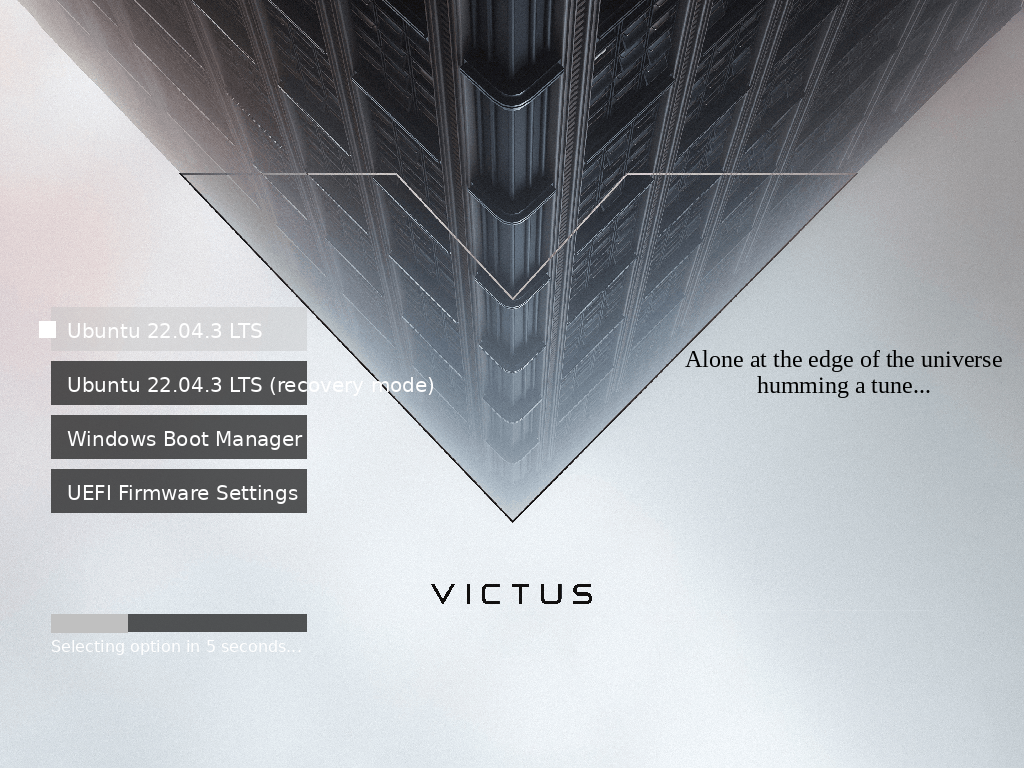
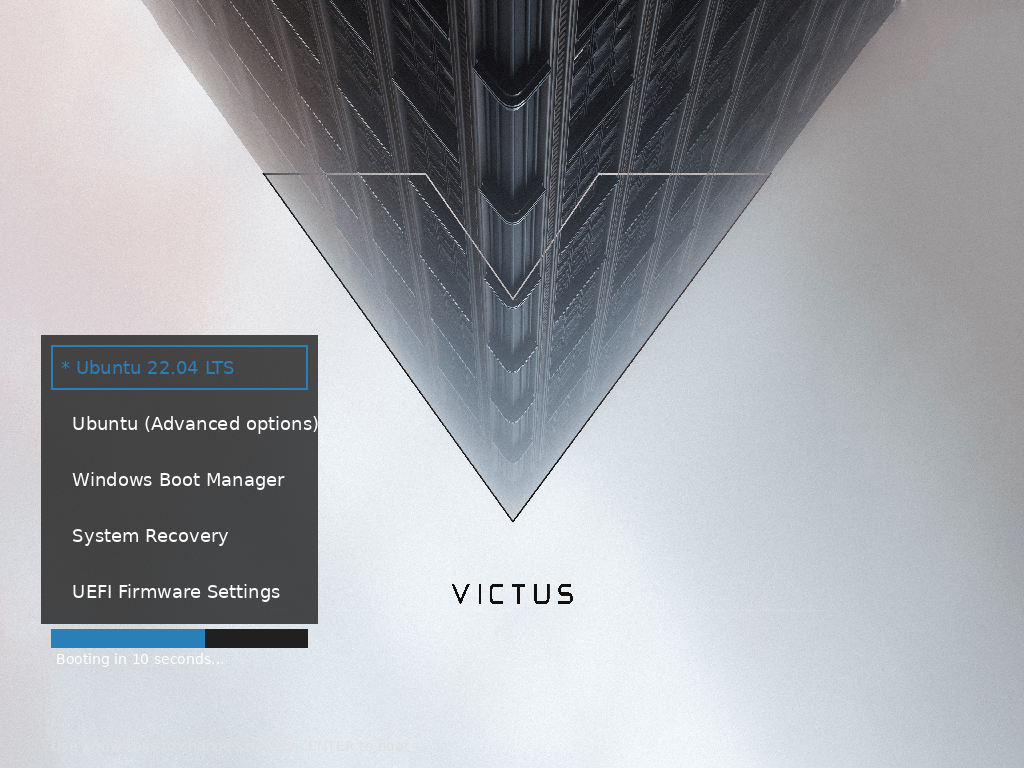
Add enhanced GRUB preview image and comprehensive manual installation guide

diff --git a/README.md b/README.md
@@ -8,7 +8,7 @@ A minimalistic, premium GRUB theme inspired by HP Victus branding featuring ultr
 
 ![HP Victus GRUB Theme in Action](grub_theme_preview.png)
 
-*The enhanced HP Victus GRUB theme featuring left-positioned menu layout, atmospheric smokey skyscraper background, dark semi-transparent overlays, and modern blue highlights optimized for maximum readability.*
+*The enhanced HP Victus GRUB theme featuring left-positioned menu layout, atmospheric smokey skyscraper background, dark semi-transparent overlays, and modern blue highlights optimized for maximum readability. The theme shows a typical boot menu with Ubuntu, Windows, and recovery options, demonstrating the clean modern aesthetic with the #2980B9 blue color scheme.*
 
 ## Features
 
@@ -42,25 +42,156 @@ The script will:
 
 ### Manual Installation
 
-1. Copy the theme directory:
+#### Step-by-Step Manual Installation
+
+**Step 1: Download and Extract Theme**
 ```bash
+# Clone the repository
+git clone https://github.com/RedheadedGamer/victus_grub.git
+cd victus_grub
+
+# Or if you downloaded a ZIP file, extract it and navigate to the directory
+```
+
+**Step 2: Copy Theme Files to GRUB Directory**
+```bash
+# Create the themes directory if it doesn't exist
+sudo mkdir -p /boot/grub/themes
+
+# Copy the victus theme directory
 sudo cp -r themes/victus /boot/grub/themes/
+
+# Verify the files were copied correctly
+sudo ls -la /boot/grub/themes/victus/
 ```
 
-2. Edit `/etc/default/grub` and add/modify:
+**Step 3: Backup Current GRUB Configuration**
 ```bash
-GRUB_THEME=/boot/grub/themes/victus/theme.txt
-GRUB_TIMEOUT=10
+# Create a backup of your current GRUB configuration
+sudo cp /etc/default/grub /etc/default/grub.backup.$(date +%Y%m%d_%H%M%S)
 ```
 
-3. Update GRUB configuration:
+**Step 4: Edit GRUB Configuration**
+```bash
+# Open the GRUB configuration file in your preferred editor
+sudo nano /etc/default/grub
+# or
+sudo vim /etc/default/grub
+# or
+sudo gedit /etc/default/grub
+```
+
+Add or modify these lines in `/etc/default/grub`:
+```bash
+# Set the theme path
+GRUB_THEME=/boot/grub/themes/victus/theme.txt
+
+# Set timeout (optional, adjust as needed)
+GRUB_TIMEOUT=10
+
+# Optional: Set resolution for better theme display
+GRUB_GFXMODE=1024x768
+
+# Optional: Ensure graphics terminal is used
+GRUB_TERMINAL_OUTPUT="gfxterm"
+```
+
+**Step 5: Verify File Permissions**
+```bash
+# Ensure proper permissions for theme files
+sudo chmod -R 644 /boot/grub/themes/victus/
+sudo chmod 755 /boot/grub/themes/victus/
+sudo find /boot/grub/themes/victus/ -type d -exec chmod 755 {} \;
+```
+
+**Step 6: Update GRUB Configuration**
+
+For **Ubuntu/Debian-based systems**:
 ```bash
 sudo update-grub
-# or on some systems:
+```
+
+For **Fedora/RHEL/CentOS systems**:
+```bash
+sudo grub2-mkconfig -o /boot/grub2/grub.cfg
+# For UEFI systems, you might need:
+sudo grub2-mkconfig -o /boot/efi/EFI/fedora/grub.cfg
+```
+
+For **Arch Linux**:
+```bash
 sudo grub-mkconfig -o /boot/grub/grub.cfg
 ```
 
-4. Reboot to see the new theme
+For **openSUSE**:
+```bash
+sudo grub2-mkconfig -o /boot/grub2/grub.cfg
+```
+
+**Step 7: Verify Installation**
+```bash
+# Check if the theme path is correctly set
+grep GRUB_THEME /etc/default/grub
+
+# Verify theme files exist
+ls -la /boot/grub/themes/victus/theme.txt
+```
+
+**Step 8: Reboot and Test**
+```bash
+sudo reboot
+```
+
+#### Installation for Different Boot Systems
+
+**For UEFI Systems:**
+- Theme files location may vary: `/boot/efi/EFI/[distro]/themes/victus/`
+- Check your distribution's GRUB documentation for exact paths
+
+**For Legacy BIOS Systems:**
+- Standard location: `/boot/grub/themes/victus/`
+- Configuration file: `/etc/default/grub`
+
+#### Troubleshooting Manual Installation
+
+**Theme Not Showing:**
+1. Check file paths are correct:
+   ```bash
+   sudo ls -la /boot/grub/themes/victus/theme.txt
+   ```
+
+2. Verify GRUB configuration:
+   ```bash
+   grep GRUB_THEME /etc/default/grub
+   ```
+
+3. Check for syntax errors:
+   ```bash
+   sudo grub-script-check /boot/grub/themes/victus/theme.txt
+   ```
+
+**Permission Issues:**
+```bash
+# Fix ownership and permissions
+sudo chown -R root:root /boot/grub/themes/victus/
+sudo chmod -R 644 /boot/grub/themes/victus/
+sudo chmod 755 /boot/grub/themes/victus/
+sudo find /boot/grub/themes/victus/ -type d -exec chmod 755 {} \;
+```
+
+**Font Issues:**
+```bash
+# Verify font files exist and have correct extensions
+ls -la /boot/grub/themes/victus/fonts/*.pf2
+```
+
+**Recovery (Restore Original Configuration):**
+```bash
+# Restore from backup
+sudo cp /etc/default/grub.backup.* /etc/default/grub
+sudo update-grub  # or appropriate command for your distribution
+sudo reboot
+```
 
 ## Theme Validation
 
